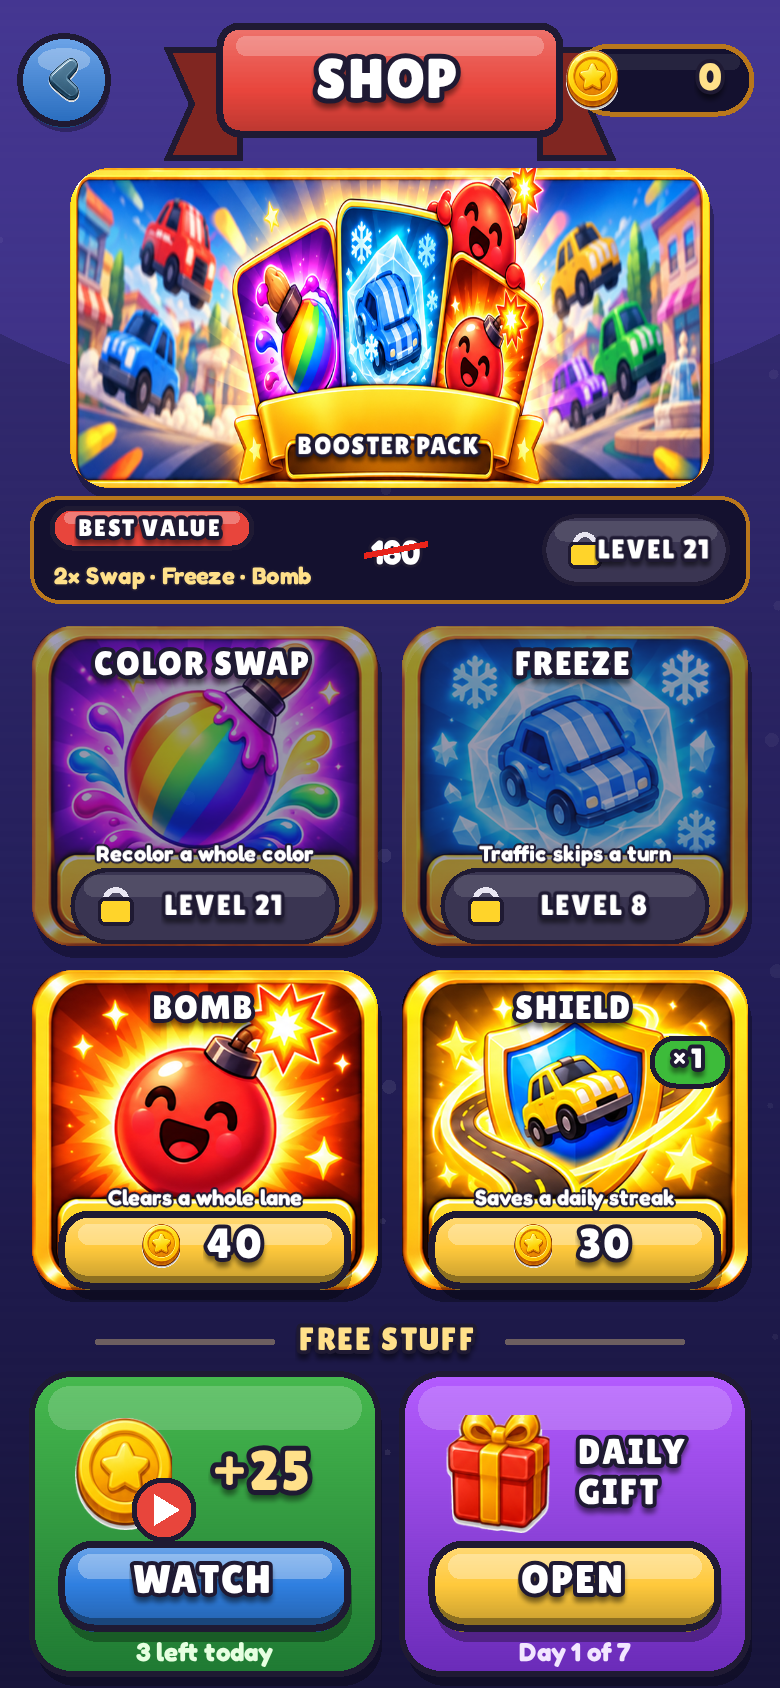
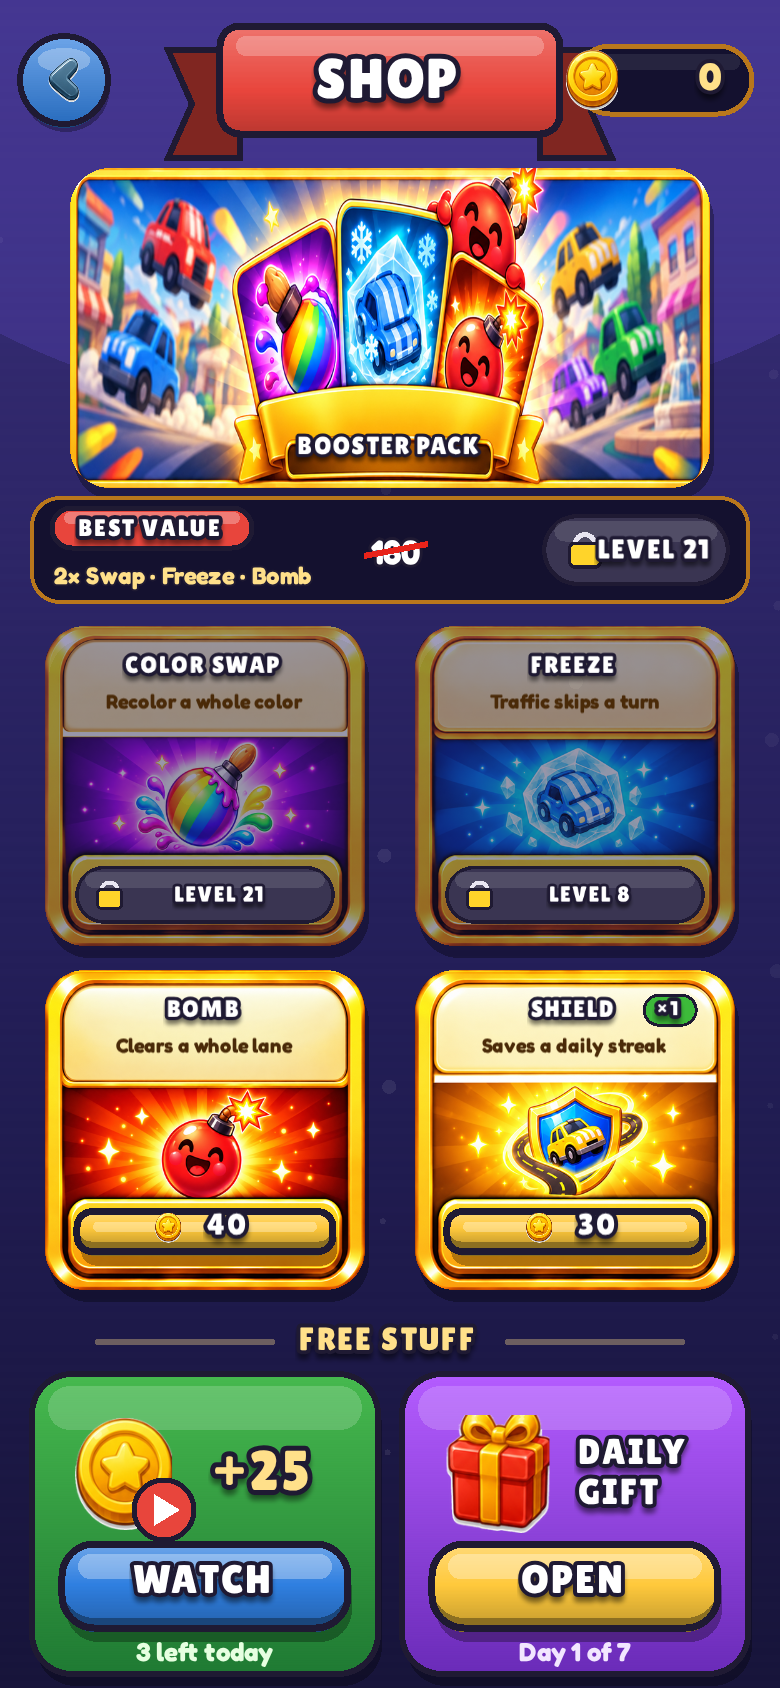
art(shop): tile-v2 art (square) with text in cream panel, price in band

Changed region(s): [[0.0308, 0.3697, 0.9846, 0.7701]]

diff --git a/src/screens/ShopScreen.js b/src/screens/ShopScreen.js
@@ -39,7 +39,7 @@ function artCard(url, x, y, w, h, r = 20) {
   return { c, sp };
 }
 // Fit a text node into maxW by scaling down (never up).
-function fitW(t, maxW) { if (t.width > maxW) t.scale.set(maxW / t.width); return t; }
+function fitW(t, maxW) { if (t.width > maxW) t.scale.set(t.scale.x * maxW / t.width); return t; }
 
 // Value pack: two of each in-level booster.
 export const SHOP_PACK = { each: 2, keys: ['colorChange', 'freeze', 'bombs'], cost: 140 };
@@ -129,12 +129,12 @@ export class ShopScreen {
     // Art: a UI price bar sits BELOW the art (no text over art) — 5px gap + 52px bar.
     const TOP = 84 + packH + (art ? 5 + 52 + 12 : 18);
 
-    const tileW = (w - PAD * 2 - GAP) / 2, tileH = art ? 160 : 186;
+    const tileW = (w - PAD * 2 - GAP) / 2, tileH = art ? 160 : 186;   // art tiles: square 160x160 (tile-v2 art), centred in the column
     this._tiles = {};
     SHOP_ITEMS.forEach((item, i) => {
       const x = PAD + (i % 2) * (tileW + GAP);
       const y = TOP + Math.floor(i / 2) * (tileH + GAP);
-      this._buildTile(item, x, y, tileW, tileH, item.key === 'shield' ? p.streakShields : (inv[item.key] ?? 0));
+      art ? this._buildTile(item, x + (tileW - tileH) / 2, y, tileH, tileH, item.key === 'shield' ? p.streakShields : (inv[item.key] ?? 0)) : this._buildTile(item, x, y, tileW, tileH, item.key === 'shield' ? p.streakShields : (inv[item.key] ?? 0));
     });
 
     const freeY = TOP + 2 * (tileH + GAP) + 6;
@@ -318,39 +318,55 @@ export class ShopScreen {
     c.addChild(burst);
   }
 
-  // Art tile: baked frame; name + desc on top, price in the empty bottom band.
+  // Art tile (tile-v2, square): measured on the 512px art — cream text panel
+  // y 6-28% / x 9-91% (inside its edges), empty gold price band y 74-92% / x 9-91%.
+  // Name, description and the owned badge stay inside the panel; price/lock in the band.
   _buildTileArt(card, item, x, y, w, h, owned) {
     const c = this._container;
     c.addChild(card.c);
     const holder = new Container();   // buy-pop target (art itself stays still)
-    holder.x = x + w / 2; holder.y = y + h * 0.45;
+    holder.x = x + w / 2; holder.y = y + h * 0.5;
     c.addChild(holder);
-    const name = fitW(titleText(item.label, 17), w - 20);
-    name.x = x + w / 2; name.y = y + 20;
-    c.addChild(name);
-    const desc = fitW(bodyText(item.desc, 11, 0xFFFFFF, { weight: '800' }), w - 18);
-    desc.anchor.set(0.5); desc.x = x + w / 2; desc.y = y + h * 0.71;
-    c.addChild(desc);
-    if (owned > 0) {
+    const pL = x + w * 0.09, pR = x + w * 0.91, pT = y + h * 0.06, pB = y + h * 0.28;
+    let textR = pR;
+    if (owned > 0) {   // owned chip: right end of the name row, inside the panel
+      const cw = 26, ch = 15, cx0 = pR - cw - 5, cy0 = pT + 3;
       const chip = new Graphics();
-      chip.roundRect(x + w - 48, y + 34, 38, 24, 12).fill(0x3DBB3A).stroke({ color: INK, width: 2.5 });
+      chip.roundRect(cx0, cy0, cw, ch, 7.5).fill(0x3DBB3A).stroke({ color: INK, width: 1.5 });
       c.addChild(chip);
-      const ct = titleText(`×${owned}`, 14);
-      ct.x = x + w - 29; ct.y = y + 46;
+      const ct = fitW(titleText(`×${owned}`, 10), cw - 6);
+      ct.x = cx0 + cw / 2; ct.y = cy0 + ch / 2 + 0.5;
       c.addChild(ct);
+      textR = cx0 - 3;
     }
-    const by = y + h * 0.875;
+    const ph = pB - pT;
+    const name = titleText(item.label, 14);
+    if (name.height > ph * 0.58) name.scale.set((ph * 0.58) / name.height);
+    fitW(name, (textR - pL) - Math.max(0, pR - textR));   // keep centred, clear of chip
+    name.x = (pL + pR) / 2; name.y = pT + ph * 0.32;
+    c.addChild(name);
+    const desc = bodyText(item.desc, 10, 0x4A2A08, { outline: false, weight: '800' });
+    if (desc.height > ph * 0.4) desc.scale.set((ph * 0.4) / desc.height);
+    fitW(desc, pR - pL - 4);
+    desc.anchor.set(0.5); desc.x = (pL + pR) / 2; desc.y = pT + ph * 0.8;
+    c.addChild(desc);
+
+    const bT = y + h * 0.755, bB = y + h * 0.925, bW = w * 0.8;
+    const bh = Math.floor((bB - bT) - 7);          // button draws a 7px drop shadow below
+    const by = bT + bh / 2;
     const locked = item.key in BOOSTER_UNLOCK_LEVEL && !boosterUnlocked(item.key, null, this._progress?.unlockedLevel ?? 1);
     if (locked) {
       card.sp.alpha = 0.55;
-      const lp = lockPlate(`LEVEL ${unlockLevelOf(item.key)}`, x + w / 2, by, w - 26);
-      lp.scale.set(0.9); c.addChild(lp);
+      const k = (bB - bT) / 40;                    // lock plate is 40px tall
+      const lp = lockPlate(`LEVEL ${unlockLevelOf(item.key)}`, x + w / 2, (bT + bB) / 2, bW / k);
+      lp.scale.set(k); c.addChild(lp);
     } else {
-      const btn = this._priceButton(item.cost, w - 30, 36, () => this._buy(item, btn));
+      const btn = button(String(item.cost), { variant: 'gold', w: bW, h: bh, size: 15,
+        icon: uiIcon('coin', 15, '◆'), onTap: () => this._buy(item, btn) });
       btn.x = x + w / 2; btn.y = by;
       c.addChild(btn);
     }
-    this._tiles[item.key] = { holder, x: x + w / 2, y: y + h * 0.45 };
+    this._tiles[item.key] = { holder, x: x + w / 2, y: y + h * 0.5 };
   }
 
   _buildTile(item, x, y, w, h, owned) {

diff --git a/docs/review/art-gpt-wave1-hf/NOTES.md b/docs/review/art-gpt-wave1-hf/NOTES.md
@@ -5,13 +5,13 @@
 ## Replaced / added
 - `docs/store/art/feature-graphic.png` (1024x500) <- `art-gpt-wave1-feature-polish/polish-a02-1024x500.png` (same path/name).
 - `public/sprites/designed/shop-pack-hero.png` <- `polish-c-pack-1024x512.png`
-- `public/sprites/designed/shop-tile-{colorswap,freeze,bomb,shield}.png` <- `polish-c-tile-*-512.png`
+- `public/sprites/designed/shop-tile-{colorswap,freeze,bomb,shield}.png` <- `tile-v2-*-512.png` (Nadav's choice 2026-10-29; replaces the earlier polish-c tiles)
 
 ## Code (visual only)
 - `src/renderer/assetManifest.js`: `SHOP_PACK_URL`, `SHOP_TILE_URLS`, `SHOP_ART_URLS` added to `ALL_SPRITE_URLS` preload (same pattern as BOOSTER_URLS).
 - `src/screens/ShopScreen.js`: shop previously drew the pack + tiles procedurally. When the textures are loaded it now draws the baked art (rounded-mask sprite) and overlays BOOSTER PACK / item name / desc / price button / lock plate in code; falls back to the old procedural cards if a texture is missing. Pack card uses the art's 2:1 frame (358x179); tiles 173x174 (art stretched slightly, as accepted). No prices, economy, purchase or unlock logic changed. Buy "pop" now targets an empty holder (tile art stays still).
 - Pack card (Nadav rules: no UI over UI, no text over art): art drawn 320x160 centred; only BOOSTER PACK sits on the art, inside the empty ribbon well. BEST VALUE tag, contents line, struck old price, -% sticker (beside, not on, the button) and price button / LEVEL lock plate are in a dark UI bar under the art. Checked locked (`after-shop-390x844.png`) and unlocked (`after-shop-unlocked-390x844.png`, unlock forced only in an uncommitted screenshot harness).
-- KNOWN REMAINING: booster tiles still put name, description and the xN owned chip over the tile art (only the bottom price band is an empty well). Not in this pass's scope.
+- Tiles (tile-v2): drawn square 160x160 (no stretch), centred in each column. Measured on the 512 art: cream panel ~y 5-32% / x 7-93%, gold price band ~y 72-95%. Code keeps a safety inset: name + description (+ Shield xN chip at the panel's right end) inside y 6-28% / x 9-91%; price button / LEVEL lock plate inside y 75.5-92.5% / x 10-90%. Text auto-shrinks (fitW now compounds scale correctly). Close-ups: `tiles-closeup-locked.png`, `tiles-closeup-unlocked.png`.
 - Labels auto-shrink (`fitW`) to their wells, so nothing can overflow.
 
 ## Verification
